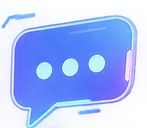
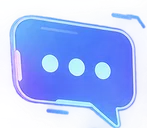
fix(mascot): mirror back faces so they line up when turned round
The back art is mounted rotateY(180deg) inside a slice that is itself
turned round when it shows, so the turns cancelled and each back sat
unmirrored inside a mirrored box. Mirror every back slice at cut time,
and draw the back monograms mirrored to read right after the flip.

diff --git a/lib/mascot-backs.test.ts b/lib/mascot-backs.test.ts
@@ -1,0 +1,40 @@
+import assert from "node:assert/strict";
+import { createRequire } from "node:module";
+import path from "node:path";
+import { test } from "node:test";
+import { MASCOT_PARTS } from "./mascot-parts.ts";
+
+// sharp ships with Next.js as an optional dependency, so resolve it through next.
+const require = createRequire(import.meta.url);
+const sharp = require(require.resolve("sharp", { paths: [require.resolve("next")] }));
+
+const ROOT = path.resolve(import.meta.dirname, "..");
+const W = 96;
+
+/** Solid coverage of an image, resized to a fixed grid. */
+const mask = async (src: string, flip: boolean) => {
+  let img = sharp(path.join(ROOT, "public", src)).ensureAlpha().resize(W, W, { fit: "fill" });
+  if (flip) img = img.flop();
+  const { data } = await img.extractChannel(3).raw().toBuffer({ resolveWithObject: true });
+  return Array.from(data as Uint8Array, (a) => a > 128);
+};
+
+const overlap = (a: boolean[], b: boolean[]) => {
+  let both = 0;
+  let either = 0;
+  for (let i = 0; i < a.length; i++) {
+    if (a[i] && b[i]) both++;
+    if (a[i] || b[i]) either++;
+  }
+  return either ? both / either : 1;
+};
+
+test("each back face fills the turned slice: its outline is the front's, mirrored", async () => {
+  // Turned round, a slice shows its face's outline mirrored (its edge layers prove it); the back
+  // art has to cover exactly that, or the dark edge stack shows beside it.
+  for (const [name, part] of Object.entries(MASCOT_PARTS)) {
+    const [front, back] = await Promise.all([mask(part.src, true), mask(part.back, false)]);
+    const iou = overlap(front, back);
+    assert.ok(iou > 0.95, `${name}: back covers ${iou.toFixed(2)} of the mirrored outline`);
+  }
+});
